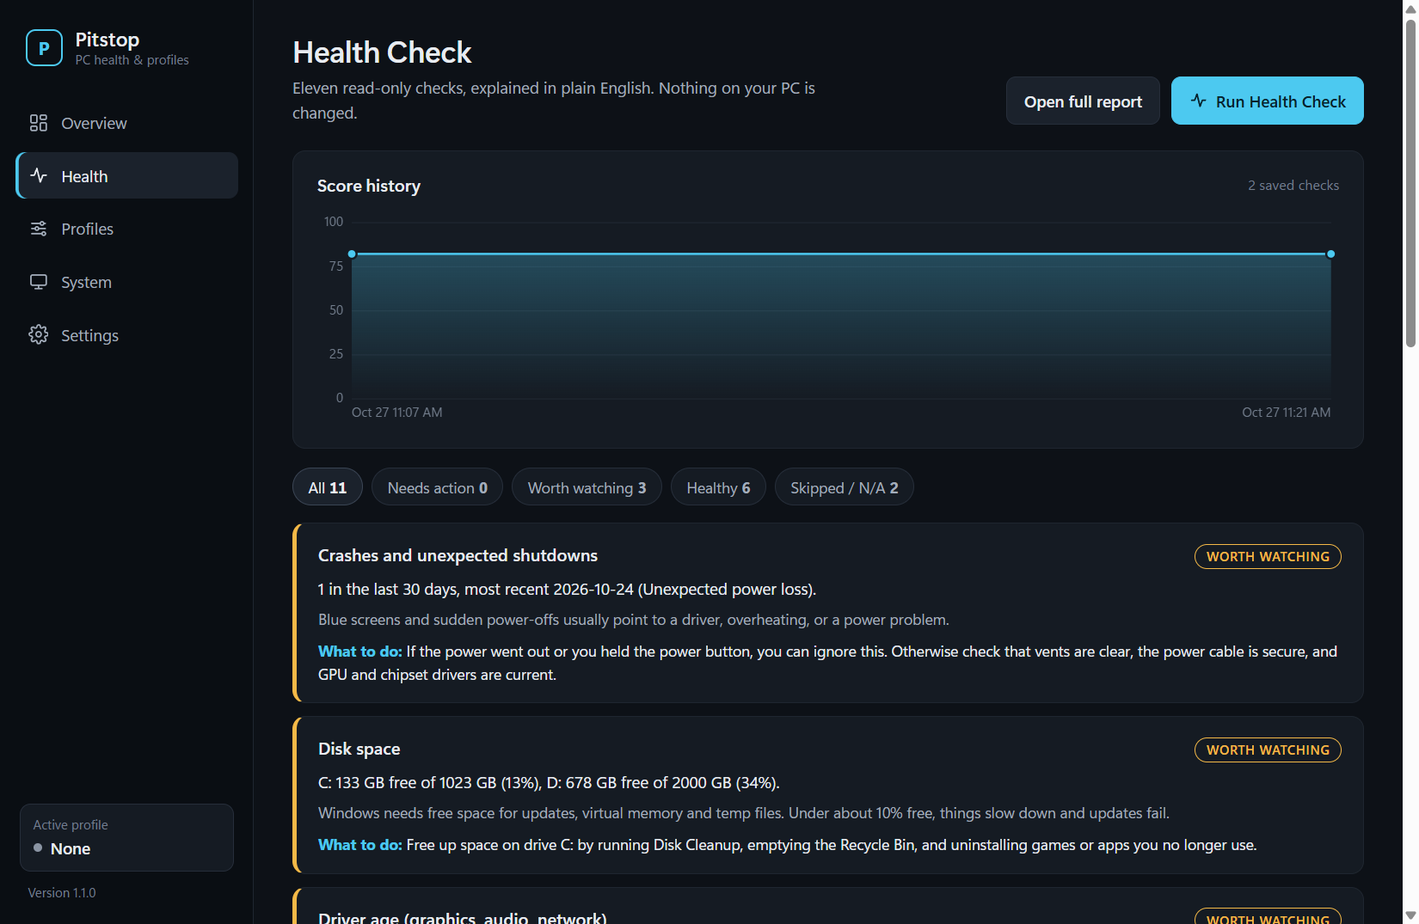
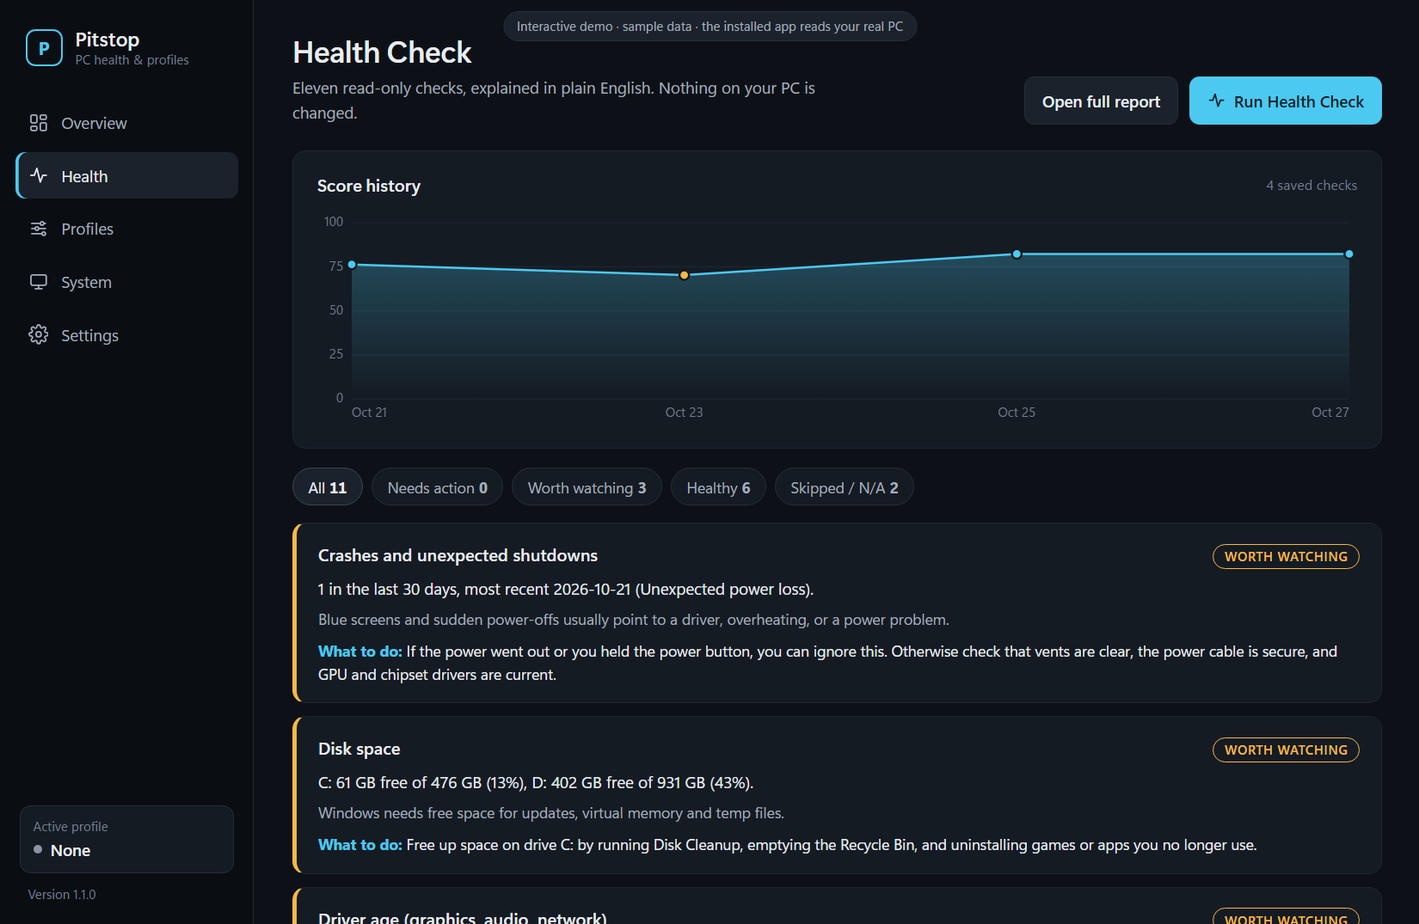
Anonymize docs, fixtures and demo data; sample-data screenshots
Replaces device models, app names, a per-install browser ID and exact
PCI vendor/device IDs from the test PC with generic stand-ins of the
same shape (bug log, test plan, case study, sample report, parser test
fixtures, dashboard demo data). Counts and measurements are unchanged.

Dashboard: deep links (#health, #system, ...) for the portfolio demo,
clearer demo banner, one unit per network axis. Screenshots re-rendered
from sample data with headless Edge.

diff --git a/src/Pitstop.App/Dashboard/dashboard.html b/src/Pitstop.App/Dashboard/dashboard.html
@@ -502,7 +502,7 @@ td.num, th.num { text-align: right; font-variant-numeric: tabular-nums; }
     const s = setup(canvas); if (!s) return;
     const all = lines.flatMap((l) => l.data.filter((v) => v != null));
     const max = opt.max ?? niceMax(Math.max(opt.minMax ?? 1, ...all));
-    const yLabel = (v) => (opt.fmt ? opt.fmt(v) : String(Math.round(v)));
+    const yLabel = (v) => (opt.fmt ? opt.fmt(v, max) : String(Math.round(v)));
     const { ctx, w, h } = s, padR = 8, padT = 10, padB = opt.xLabels ? 26 : 10;
     const padL = Math.ceil(Math.max(...[0, 1, 2, 3, 4].map((g) => ctx.measureText(yLabel((max / 4) * g)).width))) + 14;
     const cw = w - padL - padR, chh = h - padT - padB, n = opt.points ?? Math.max(...lines.map((l) => l.data.length), 2);
@@ -574,7 +574,8 @@ td.num, th.num { text-align: right; font-variant-numeric: tabular-nums; }
     if (page === "page-system") {
       lineChart($("ch-cpu"), [{ data: series.cpu, color: css("--accent"), fill: true }], { max: 100, fmt: pctFmt, points: MAX_POINTS });
       lineChart($("ch-mem"), [{ data: series.mem, color: "#b18cff", fill: true }], { max: 100, fmt: pctFmt, points: MAX_POINTS });
-      lineChart($("ch-net"), [{ data: series.down, color: css("--accent"), fill: true }, { data: series.up, color: css("--ok") }], { fmt: (v) => (v === 0 ? "0" : v >= 1024 ? +(v / 1024).toFixed(1) + " MB/s" : Math.round(v) + " KB/s"), points: MAX_POINTS, minMax: 20 });
+      lineChart($("ch-net"), [{ data: series.down, color: css("--accent"), fill: true }, { data: series.up, color: css("--ok") }], // One unit per axis: once the scale reaches 1000 KB/s every label switches to MB/s.
+        { fmt: (v, max) => (v === 0 ? "0" : max >= 1000 ? +(v / 1024).toFixed(1) + " MB/s" : Math.round(v) + " KB/s"), points: MAX_POINTS, minMax: 20 });
     }
     if (!state) return;
     if (page === "page-health") {
@@ -612,28 +613,29 @@ td.num, th.num { text-align: right; font-variant-numeric: tabular-nums; }
       else if (msg.type !== "ready") toast("Demo mode: “" + msg.type + "” works in the app.");
     },
     start() {
-      document.body.insertAdjacentHTML("beforeend", '<div class="demo-banner">Demo data · open Pitstop to see your PC</div>');
+      document.body.insertAdjacentHTML("beforeend", '<div class="demo-banner">Interactive demo · sample data · the installed app reads your real PC</div>');
       const now = Date.now(), iso = (msAgo) => new Date(now - msAgo).toISOString(), H = 3600e3, D = 24 * H;
       const F = (id, title, severity, summary, whatItMeans, whatToDo) => ({ checkId: id, title, severity, summary, whatItMeans, whatToDo });
       receive({
         type: "state", version: "1.1.0", autostart: false, includeMachineName: false, activeProfileId: null, manualProfileId: null, checkRunning: false,
         memTotalGb: 32, uptimeSec: 3.4 * 86400,
-        drives: [{ name: "C:", label: "Windows", totalGb: 1023, freeGb: 134 }, { name: "D:", label: "Games", totalGb: 2000, freeGb: 678 }],
+        // Sample data only: generic devices and apps, nothing from a real PC.
+        drives: [{ name: "C:", label: "Windows", totalGb: 476, freeGb: 61 }, { name: "D:", label: "Data", totalGb: 931, freeGb: 402 }],
         profiles: [
           { id: "work", name: "Work", priority: 10, hotkey: "Ctrl+Alt+W", processes: ["ms-teams.exe", "EXCEL.EXE", "WINWORD.EXE"], actions: { powerPlan: "Balanced", audioOutput: null, audioInput: null, muteNotifications: false, closeApps: [], launchApps: [], breakReminderMinutes: 60 } },
-          { id: "play", name: "Play", priority: 20, hotkey: "Ctrl+Alt+P", processes: ["cs2.exe", "eldenring.exe"], actions: { powerPlan: "High performance", audioOutput: "Fosi", audioInput: null, muteNotifications: true, closeApps: ["OneDrive.exe"], launchApps: [], breakReminderMinutes: 90 } },
-          { id: "stream", name: "Stream / Record", priority: 30, hotkey: "Ctrl+Alt+S", processes: ["obs64.exe"], actions: { powerPlan: "High performance", audioOutput: null, audioInput: "Scarlett Solo", muteNotifications: true, closeApps: [], launchApps: [], breakReminderMinutes: null } },
+          { id: "play", name: "Play", priority: 20, hotkey: "Ctrl+Alt+P", processes: ["MyGame.exe"], actions: { powerPlan: "High performance", audioOutput: "Headset", audioInput: null, muteNotifications: true, closeApps: ["OneDrive.exe"], launchApps: [], breakReminderMinutes: 90 } },
+          { id: "stream", name: "Stream / Record", priority: 30, hotkey: "Ctrl+Alt+S", processes: ["obs64.exe"], actions: { powerPlan: "High performance", audioOutput: null, audioInput: "USB Microphone", muteNotifications: true, closeApps: [], launchApps: [], breakReminderMinutes: null } },
         ],
         report: { takenAt: iso(40 * 60e3), score: 82, grade: "Good", findings: [
-          F("H3", "Crashes and unexpected shutdowns", "Watch", "1 in the last 30 days, most recent 2026-10-24 (Unexpected power loss).", "Blue screens and sudden power-offs usually point to a driver, overheating, or a power problem.", "If the power went out or you held the power button, you can ignore this. Otherwise check that vents are clear, the power cable is secure, and GPU and chipset drivers are current."),
-          F("H4", "Disk space", "Watch", "C: 134 GB free of 1023 GB (13%), D: 678 GB free of 2000 GB (34%).", "Windows needs free space for updates, virtual memory and temp files.", "Free up space on drive C: by running Disk Cleanup, emptying the Recycle Bin, and uninstalling games or apps you no longer use."),
-          F("H8", "Driver age (graphics, audio, network)", "Watch", "Older than 2 years: Realtek High Definition Audio (2024-06-25).", "Old drivers are a common cause of crashes, audio dropouts and poor game performance.", "Download the latest driver from the device maker's site."),
-          F("H1", "Windows updates", "Ok", "Windows 11 Home 25H2 (build 26200.9711). Last update installed 12 days ago.", "Updates patch security holes and fix bugs.", "Nothing to do."),
+          F("H3", "Crashes and unexpected shutdowns", "Watch", "1 in the last 30 days, most recent 2026-10-21 (Unexpected power loss).", "Blue screens and sudden power-offs usually point to a driver, overheating, or a power problem.", "If the power went out or you held the power button, you can ignore this. Otherwise check that vents are clear, the power cable is secure, and GPU and chipset drivers are current."),
+          F("H4", "Disk space", "Watch", "C: 61 GB free of 476 GB (13%), D: 402 GB free of 931 GB (43%).", "Windows needs free space for updates, virtual memory and temp files.", "Free up space on drive C: by running Disk Cleanup, emptying the Recycle Bin, and uninstalling games or apps you no longer use."),
+          F("H8", "Driver age (graphics, audio, network)", "Watch", "Older than 2 years: Onboard audio driver (2023-09-14).", "Old drivers are a common cause of crashes, audio dropouts and poor game performance.", "Download the latest driver from the device maker's site."),
+          F("H1", "Windows updates", "Ok", "Windows 11 25H2. Last update installed 9 days ago.", "Updates patch security holes and fix bugs.", "Nothing to do."),
           F("H2", "Time since restart", "Ok", "Running for 3.4 days without a restart.", "Long uptimes let memory leaks build up.", "Nothing to do."),
-          F("H5", "Drive health", "Ok", "NVMe HP SSD EX950 2TB (SSD): Healthy, NVMe WDC PC SN530 (SSD): Healthy.", "This is Windows' own verdict on each drive.", "Nothing to do."),
-          F("H6", "Memory and processor load", "Ok", "Memory 71% used of 32 GB, processor 12% busy during the check.", "A snapshot of how busy the PC was.", "Nothing to do."),
+          F("H5", "Drive health", "Ok", "System SSD (NVMe): Healthy, Data SSD (NVMe): Healthy.", "This is Windows' own verdict on each drive.", "Nothing to do."),
+          F("H6", "Memory and processor load", "Ok", "Memory 64% used of 32 GB, processor 9% busy during the check.", "A snapshot of how busy the PC was.", "Nothing to do."),
           F("H7", "Startup apps", "Ok", "7 apps start with Windows.", "Every startup app slows boot time.", "Nothing to do."),
-          F("H9", "Network connection", "Ok", "Router 3 ms, 0% loss to router, internet 10 ms, 0% loss to internet, DNS lookup 16 ms.", "Latency is delay; packet loss is data that never arrives.", "Nothing to do."),
+          F("H9", "Network connection", "Ok", "Router 2 ms, 0% loss to router, internet 12 ms, 0% loss to internet, DNS lookup 14 ms.", "Latency is delay; packet loss is data that never arrives.", "Nothing to do."),
           F("H10", "Battery wear", "NotApplicable", "No battery (desktop PC).", "This check only applies to laptops.", "Nothing to do."),
           F("H11", "Temperature", "Skipped", "Reading temperatures needs administrator rights, so this check was skipped.", "Pitstop couldn't check this on this PC.", "Optional: to include it, right-click Pitstop and choose Run as administrator."),
         ] },
@@ -655,6 +657,9 @@ td.num, th.num { text-align: right; font-variant-numeric: tabular-nums; }
   };
 
   if (host) send({ type: "ready" }); else Demo.start();
+  // Deep link to a page, e.g. dashboard.html#system (used by the portfolio demo).
+  const startPage = location.hash.slice(1);
+  if (["overview", "health", "profiles", "system", "settings"].includes(startPage)) go(startPage);
 })();
 </script>
 </body>

diff --git a/docs/sample-health-report.html b/docs/sample-health-report.html
@@ -32,21 +32,21 @@ main{padding:0}.card,.tile{break-inside:avoid}
 <div class="tile"><b>6</b><span>Healthy</span></div>
 </div>
 <section class="card watch"><div class="head"><h2>Crashes and unexpected shutdowns</h2><span class="pill watch">WATCH</span></div>
-<p>1 in the last 30 days, most recent 2026-10-24 (Unexpected power loss).</p><p class="why">Blue screens and sudden power-offs usually point to a driver, overheating, or a power problem.</p><p class="todo"><b>What to do:</b> If the power went out or you held the power button, you can ignore this. Otherwise check that vents are clear, the power cable is secure, and GPU and chipset drivers are current.</p></section>
+<p>1 in the last 30 days, most recent 2026-10-21 (Unexpected power loss).</p><p class="why">Blue screens and sudden power-offs usually point to a driver, overheating, or a power problem.</p><p class="todo"><b>What to do:</b> If the power went out or you held the power button, you can ignore this. Otherwise check that vents are clear, the power cable is secure, and GPU and chipset drivers are current.</p></section>
 <section class="card watch"><div class="head"><h2>Disk space</h2><span class="pill watch">WATCH</span></div>
-<p>C: 134 GB free of 1023 GB (13%), D: 678 GB free of 2000 GB (34%).</p><p class="why">Windows needs free space for updates, virtual memory and temp files. Under about 10% free, things slow down and updates fail.</p><p class="todo"><b>What to do:</b> Free up space on drive C: by running Disk Cleanup, emptying the Recycle Bin, and uninstalling games or apps you no longer use.</p></section>
+<p>C: 61 GB free of 476 GB (13%), D: 402 GB free of 931 GB (43%).</p><p class="why">Windows needs free space for updates, virtual memory and temp files. Under about 10% free, things slow down and updates fail.</p><p class="todo"><b>What to do:</b> Free up space on drive C: by running Disk Cleanup, emptying the Recycle Bin, and uninstalling games or apps you no longer use.</p></section>
 <section class="card watch"><div class="head"><h2>Driver age (graphics, audio, network)</h2><span class="pill watch">WATCH</span></div>
-<p>Older than 2 years: Realtek High Definition Audio (2024-06-25).</p><p class="why">Old drivers are a common cause of crashes, audio dropouts and poor game performance.</p><p class="todo"><b>What to do:</b> Download the latest driver from the device maker&#39;s site (NVIDIA, AMD, Intel, Realtek, or your PC maker).</p></section>
+<p>Older than 2 years: Onboard audio driver (2023-09-14).</p><p class="why">Old drivers are a common cause of crashes, audio dropouts and poor game performance.</p><p class="todo"><b>What to do:</b> Download the latest driver from the device maker&#39;s site (NVIDIA, AMD, Intel, Realtek, or your PC maker).</p></section>
 <section class="card ok"><div class="head"><h2>Windows updates</h2><span class="pill ok">OK</span></div>
-<p>Windows 11 Home 25H2 (build 26200.9711). Last update installed 12 days ago.</p><p class="why">Updates patch security holes and fix bugs. Windows normally installs one every month.</p><p class="todo"><b>What to do:</b> Nothing to do.</p></section>
+<p>Windows 11 25H2. Last update installed 9 days ago.</p><p class="why">Updates patch security holes and fix bugs. Windows normally installs one every month.</p><p class="todo"><b>What to do:</b> Nothing to do.</p></section>
 <section class="card ok"><div class="head"><h2>Time since restart</h2><span class="pill ok">OK</span></div>
 <p>Running for 3.4 days without a restart.</p><p class="why">Long uptimes let memory leaks build up and keep updates from finishing. Shutting down with Fast Startup on doesn&#39;t count as a restart.</p><p class="todo"><b>What to do:</b> Nothing to do.</p></section>
 <section class="card ok"><div class="head"><h2>Drive health</h2><span class="pill ok">OK</span></div>
-<p>NVMe HP SSD EX950 2TB (SSD): Healthy, NVMe WDC PC SN530 SDBPNPZ-1T00-1006 (SSD): Healthy.</p><p class="why">This is Windows&#39; own verdict on each drive, based on its built-in failure warnings.</p><p class="todo"><b>What to do:</b> Nothing to do.</p></section>
+<p>System SSD (NVMe): Healthy, Data SSD (NVMe): Healthy.</p><p class="why">This is Windows&#39; own verdict on each drive, based on its built-in failure warnings.</p><p class="todo"><b>What to do:</b> Nothing to do.</p></section>
 <section class="card ok"><div class="head"><h2>Memory and processor load</h2><span class="pill ok">OK</span></div>
 <p>Memory 71% used of 32 GB, processor 12% busy during the check.</p><p class="why">This is a snapshot of how busy the PC was during the check. Constantly high numbers make everything feel slow.</p><p class="todo"><b>What to do:</b> Nothing to do.</p></section>
 <section class="card ok"><div class="head"><h2>Startup apps</h2><span class="pill ok">OK</span></div>
-<p>7 apps start with Windows: NVIDIA Broadcast, GoogleChromeAutoLaunch, Medal, SecurityHealth, LG Monitor App Installer, Ollama, Tailscale.</p><p class="why">Every startup app slows boot time and uses memory in the background.</p><p class="todo"><b>What to do:</b> Nothing to do.</p></section>
+<p>7 apps start with Windows: SecurityHealth, BrowserAutoLaunch, OneDrive, Chat App, Game Launcher, GPU Companion, VPN Client.</p><p class="why">Every startup app slows boot time and uses memory in the background.</p><p class="todo"><b>What to do:</b> Nothing to do.</p></section>
 <section class="card ok"><div class="head"><h2>Network connection</h2><span class="pill ok">OK</span></div>
 <p>Router 3 ms, 0% loss to router, internet 10 ms, 0% loss to internet, DNS lookup 16 ms.</p><p class="why">Latency is delay, and packet loss is data that never arrives. Loss to your own router points to Wi-Fi or cabling; loss only beyond it points to your internet provider.</p><p class="todo"><b>What to do:</b> Nothing to do.</p></section>
 <section class="card skip"><div class="head"><h2>Temperature</h2><span class="pill skip">SKIPPED</span></div>

diff --git a/tests/Pitstop.Tests/ParserTests.cs b/tests/Pitstop.Tests/ParserTests.cs
@@ -97,23 +97,23 @@ public class ParserTests
         Assert.True(merged[0].At < merged[1].At);
     }
 
-    // Device IDs recorded from a real PC (BUG-002).
+    // Device IDs shaped like those recorded on the test PC (BUG-002); vendor/device numbers anonymized.
     [Theory]
-    [InlineData(@"ROOT\MEDIA\0003", true)]                  // Virtual Desktop Audio
-    [InlineData(@"ROOT\STEAMSTREAMINGSPEAKERS\0000", true)]  // Steam Streaming Speakers
-    [InlineData(@"SWD\WINTUN\{37217669-42DA-4657}", true)]   // Tailscale Tunnel
-    [InlineData(@"PCI\VEN_10DE&DEV_2216&SUBSYS_0", false)]   // NVIDIA GeForce RTX 3080
-    [InlineData(@"HDAUDIO\FUNC_01&VEN_10EC&DEV_0", false)]   // Realtek High Definition Audio
-    [InlineData(@"USB\VID_1532&PID_0527", false)]            // USB headset
+    [InlineData(@"ROOT\MEDIA\0003", true)]                  // virtual audio device
+    [InlineData(@"ROOT\VIRTUALSPEAKERS\0000", true)]         // game-streaming virtual speakers
+    [InlineData(@"SWD\WINTUN\{00000000-0000-0000}", true)]   // VPN tunnel adapter
+    [InlineData(@"PCI\VEN_1234&DEV_5678&SUBSYS_0", false)]   // discrete graphics card
+    [InlineData(@"HDAUDIO\FUNC_01&VEN_1234&DEV_0", false)]   // onboard audio
+    [InlineData(@"USB\VID_1234&PID_0001", false)]            // USB headset
     public void IsVirtualDevice_separates_software_devices_from_hardware(string id, bool expected) =>
         Assert.Equal(expected, Parsers.IsVirtualDevice(id));
 
-    // Names recorded from a real PC (BUG-001).
+    // Names shaped like those found on the test PC (BUG-001): a trailing space and a per-install hash.
     [Theory]
-    [InlineData("NVIDIA Broadcast ", "NVIDIA Broadcast")]
-    [InlineData("GoogleChromeAutoLaunch_38791F4ABEA708E49E1BBE279F94BC2B", "GoogleChromeAutoLaunch")]
+    [InlineData("GPU Companion ", "GPU Companion")]
+    [InlineData("BrowserAutoLaunch_0F1E2D3C4B5A69788796A5B4C3D2E1F0", "BrowserAutoLaunch")]
     [InlineData("My_App", "My_App")]
-    [InlineData("Tailscale", "Tailscale")]
+    [InlineData("VPN Client", "VPN Client")]
     public void CleanStartupName_trims_and_drops_hash_suffix(string raw, string expected) =>
         Assert.Equal(expected, Parsers.CleanStartupName(raw));
 

diff --git a/docs/BUGS.md b/docs/BUGS.md
@@ -1,6 +1,6 @@
 # Bug log
 
-These are real defects found while testing Pitstop on a real PC (Windows 11 Home 25H2, build 26200, RTX 3080, two NVMe SSDs, wired Ethernet). They're written up the way a support ticket would be. Each fix has a regression test.
+These are real defects found while testing Pitstop on a real PC (Windows 11 25H2, desktop, discrete GPU, two NVMe SSDs, wired Ethernet). They're written up the way a support ticket would be. Each fix has a regression test. Device and app names from the test PC are anonymized; the IDs, counts and measurements are real.
 
 ---
 
@@ -12,17 +12,17 @@ These are real defects found while testing Pitstop on a real PC (Windows 11 Home
 | **Component** | `WindowsSystemProbe.ReadStartupItems` |
 
 **Steps to reproduce**
-1. Install Google Chrome and NVIDIA Broadcast, with both set to start with Windows.
-2. Run `Pitstop.App.exe --check`.
+1. Install a web browser and a GPU vendor's companion app, with both set to start with Windows.
+2. Run `Pitstop.exe --check`.
 
-**Expected:** "NVIDIA Broadcast, GoogleChromeAutoLaunch"
-**Actual:** "NVIDIA Broadcast , GoogleChromeAutoLaunch_38791F4ABEA708E49E1BBE279F94BC2B"
+**Expected:** "GPU Companion, BrowserAutoLaunch"
+**Actual:** "GPU Companion , BrowserAutoLaunch_0F1E2D3C4B5A69788796A5B4C3D2E1F0" (names anonymized; the shape is real)
 
-**Root cause:** Registry value names are shown exactly as the apps wrote them. NVIDIA's has a trailing space, and Chrome adds a 32-character per-install hash.
+**Root cause:** Registry value names are shown exactly as the apps wrote them. One had a trailing space, and the browser adds a 32-character per-install hash.
 
 **Fix:** Added `Parsers.CleanStartupName`, which trims whitespace and removes a trailing `_` followed by exactly 32 hex characters. Names like `My_App` are left alone.
 
-**Regression test:** `ParserTests.CleanStartupName_trims_and_drops_hash_suffix`, using the real names from this PC.
+**Regression test:** `ParserTests.CleanStartupName_trims_and_drops_hash_suffix`, using names with the same shape as the real ones.
 
 ---
 
@@ -34,11 +34,11 @@ These are real defects found while testing Pitstop on a real PC (Windows 11 Home
 | **Component** | `WindowsSystemProbe.ReadDrivers` |
 
 **Steps to reproduce**
-1. Install Steam, Virtual Desktop or a VPN such as Tailscale.
+1. Install apps that add virtual devices: game streaming, VR streaming, or a VPN client.
 2. Run the Health Check.
 
 **Expected:** Only physical graphics, audio and network hardware is graded.
-**Actual:** 8 "outdated" drivers were flagged. 7 of them were software-only devices, such as Steam Streaming Speakers (2017), Tailscale Tunnel (2021) and PdaNet Broadband Adapter (2017).
+**Actual:** 8 "outdated" drivers were flagged. 7 of them were software-only devices, such as a game-streaming virtual speaker (driver from 2017), a VPN tunnel adapter (2021) and a phone-tethering adapter (2017).
 
 **Root cause:** `Win32_PnPSignedDriver` lists virtual devices in the same DISPLAY, MEDIA and NET classes as real hardware. Their driver dates don't reflect anything the user needs to update.
 
@@ -46,9 +46,9 @@ These are real defects found while testing Pitstop on a real PC (Windows 11 Home
 
 **Fix:** Added `Parsers.IsVirtualDevice`, and the probe now skips those devices.
 
-**Result:** 1 real finding: Realtek High Definition Audio, driver dated 2024-06-25.
+**Result:** 1 real finding remained: the onboard audio driver, more than 2 years old.
 
-**Regression test:** `ParserTests.IsVirtualDevice_separates_software_devices_from_hardware`, using device IDs recorded from this PC.
+**Regression test:** `ParserTests.IsVirtualDevice_separates_software_devices_from_hardware`, using device IDs with the same structure as the ones recorded on the test PC.
 
 ---
 

diff --git a/docs/TEST-PLAN.md b/docs/TEST-PLAN.md
@@ -34,8 +34,8 @@
 | | |
 |---|---|
 | OS | Windows 11 Home 25H2 (build 26200), standard user (not elevated) |
-| Hardware | Desktop, 20 logical cores, 32 GB RAM, RTX 3080, 2× NVMe SSD |
-| Audio devices | Fosi Audio K5 Pro, Focusrite Scarlett Solo, Realtek, plus 5 virtual devices |
+| Hardware | Desktop, 20 logical cores, 32 GB RAM, discrete GPU, 2× NVMe SSD |
+| Audio devices | USB headphone amp, USB audio interface, onboard audio, plus 5 virtual devices |
 | Network | Wired Ethernet |
 | Build | .NET 8.0.427 SDK, Release; installer built with Inno Setup 6.7 |
 
@@ -44,8 +44,8 @@
 |---|---|---|---|
 | L1 | Headless Health Check, run 5 times back to back | Stable verdict, under 10 s | ✅ Watch every time, 5.1 s |
 | L2 | Report redaction | No PC name or username in the HTML | ✅ 0 occurrences |
-| L3 | Trigger app starts (Notepad, QA profile) | Power plan, audio output and closing an app all applied within the poll interval | ✅ Balanced, Realtek, Character Map closed, about 2 s |
-| L4 | Trigger app exits | Everything reverted in reverse order; closed app relaunched | ✅ High performance, Fosi K5 Pro, Character Map reopened |
+| L3 | Trigger app starts (Notepad, QA profile) | Power plan, audio output and closing an app all applied within the poll interval | ✅ Balanced, secondary audio output, test app closed, about 2 s |
+| L4 | Trigger app exits | Everything reverted in reverse order; closed app relaunched | ✅ High performance, primary headphones, test app reopened |
 | L5 | Pitstop force-killed while a profile is active | On restart, the revert journal restores the settings | ✅ Plan and audio restored, journal cleared |
 | L6 | Break reminder at 1 min | Fires within 10 s of being due | ✅ Fired at 65 s |
 | L7 | Valid config edit while running | Reloaded live; next activation uses the new settings | ✅ "Power saver" applied |

diff --git a/docs/CASE-STUDY.md b/docs/CASE-STUDY.md
@@ -44,7 +44,7 @@ I treated QA as a feature, not a final step.
 
 ## Three bugs that taught me something
 - **The connection was fine; the measurement wasn't (BUG-004).** Pitstop reported 20–25% packet loss on a wired connection with 0% loss to the router. I isolated the variable by pinging two providers at four different intervals. Loss was 4 in 20 at 100 ms spacing and 0 at 250 ms. Public DNS servers throttle bursts of pings. The fix changed how Pitstop measures, not the threshold.
-- **False alarms are bugs too (BUG-002).** The driver check flagged 8 "outdated" drivers. Seven belonged to virtual devices (Steam Streaming Speakers, a VPN tunnel). Comparing device IDs showed that software devices are enumerated under `ROOT\` and `SWD\`, while real hardware sits on PCI, HDAUDIO or USB. One real finding remained.
+- **False alarms are bugs too (BUG-002).** The driver check flagged 8 "outdated" drivers. Seven belonged to virtual devices (game-streaming speakers, a VPN tunnel). Comparing device IDs showed that software devices are enumerated under `ROOT\` and `SWD\`, while real hardware sits on PCI, HDAUDIO or USB. One real finding remained.
 - **Measure before optimizing (BUG-008 and BUG-010).** The tray app used 72 MB of private memory. The cause was a second UI framework that a windowless app didn't need. Removing it cut private memory to 14 MB (−80%). Removing it from the package cut the installer from 49 MB to 33 MB.
 
 ## Results

diff --git a/docs/DESIGN.md b/docs/DESIGN.md
@@ -86,7 +86,7 @@ Core never references Windows APIs directly, so everything in it is testable wit
   "profiles": [
     {
       "id": "play", "name": "Play", "priority": 20,
-      "triggers": { "processes": ["eldenring.exe", "cs2.exe"], "hotkey": "Ctrl+Alt+P" },
+      "triggers": { "processes": ["MyGame.exe"], "hotkey": "Ctrl+Alt+P" },
       "actions": {
         "powerPlan": "High performance",
         "audioOutput": "Headset", "audioInput": null,
